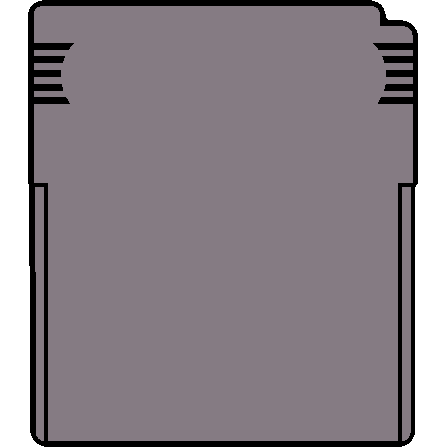
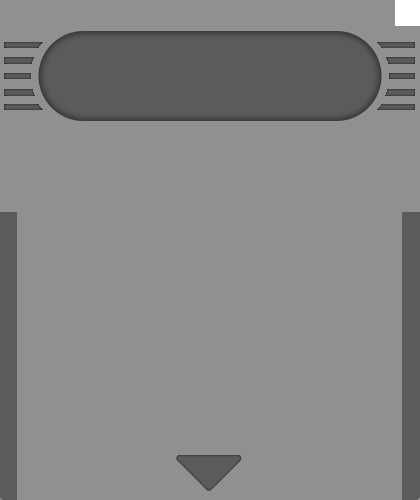
updated cartridge gfx

diff --git a/src/gametile.py b/src/gametile.py
@@ -2,7 +2,7 @@ from src.gamebase import *
 
 class CartridgePixmap(Scaled):
     def __init__(self, name):
-        super().__init__('assets/images/{0}.png'.format(name), 150)
+        super().__init__('assets/images/{0}.png'.format(name), 135, 150)
         self.Faded = Faded(self)
 
 class CartridgeImage(QLabel):
@@ -13,8 +13,8 @@ class CartridgeImage(QLabel):
         
         self.setAlignment(Qt.AlignCenter)
 
-        self.LibraryPixmap = CartridgePixmap('cartridge')
-        self.NotLibraryPixmap =  CartridgePixmap('cartridge_dark')
+        self.LibraryPixmap = CartridgePixmap('cartridge_scaled')
+        self.NotLibraryPixmap =  CartridgePixmap('cartridge_dark_scaled')
 
         self.Game.on('Library', self.update)
         self.Game.on('Excluding', self.update)

diff --git a/src/base.py b/src/base.py
@@ -287,8 +287,10 @@ class Button(QLabel):
         self.updateStyle()
 
 class Scaled(QPixmap):
-    def __init__(self, path, dim):
-        super().__init__(dim, dim)
+    def __init__(self, path, width, height=None):
+        if height is None:
+            height=width
+        super().__init__(width, height)
         self.fill(Qt.transparent)
         painter = QPainter(self)
         painter.setRenderHints(QPainter.Antialiasing, QPainter.SmoothPixmapTransform)

diff --git a/src/gamepanel.py b/src/gamepanel.py
@@ -4,7 +4,7 @@ from src.gamebase import *
 
 class GamePanelArtworkPixmap(Scaled):
     def __init__(self, game):
-        super().__init__(game.Boxart, 300)
+        super().__init__(game.Boxart, 320, 288)
         self.Game = game
         self.Faded = Faded(self)
 

diff --git a/README.md b/README.md
@@ -86,4 +86,6 @@ Please see this file for potential [Future Work](FutureWork.md)
 
 Any help towards this project will be much appreciated!  This could be anything from sharing bugs, informing of missing repositories, adding better Tags/Titles/Descriptions/Artwork, or any feature requests!
 
+Please see [this page](contributors.md) for recognition of some other those who have contributed to this project
+
 [Join the Discord Here](https://discord.gg/dvgYzaZcjK)

diff --git a/contributors.md b/contributors.md
@@ -1,0 +1,9 @@
+# Contributors
+
+  * ViWalls
+    * Bug testing, Suggestions, Data Collection
+  * ZoomTen
+    * Bug Testing, Suggestions, Data Collection, Code Contribution
+  * The-Desert-Tiger
+    * Original Cartridge Art
+      * https://www.deviantart.com/the-desert-tiger/art/Game-Boy-Cartridge-Vector-386409017
